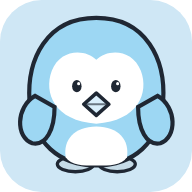
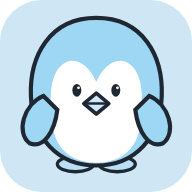
参考画像に合わせてペンギンを調整、黄色い友だちをうさぎに
- 頭の水色が眉間でとがる形、顔とおなかの白をひとつながりに、くちばしに口の線
- 休憩時に顔を出す黄色いキャラを、耳の長いうさぎ（眠たげな目）に描き直し

Claude-Session: https://claude.ai/code/session_01JvFTU9iKCs5zQqkUtnyK3x

diff --git a/index.html b/index.html
@@ -13,7 +13,7 @@
   --bg:#cfe7f5; --card:#eef7fc; --fg:#1d2a3a; --muted:#5f7387; --line:#bfdbeb;
   --accent:#2f8fd6; --accent-fg:#ffffff; --soft:#d9edf9; --warn:#d99a2b; --ok:#3a9a65;
   --bubble:#ffffff; --shadow:0 6px 24px rgba(30,50,80,.12);
-  --pg-body:#9dd7f3; --pg-face:#ffffff; --pg-beak:#d9eefb; --pg-line:#1f2733; --pg-feet:#c6dbe7; --pg-heart:#f38fb6;
+  --pg-body:#9dd7f3; --pg-face:#ffffff; --pg-beak:#cfe9fa; --pg-line:#1f2733; --pg-feet:#b9e0f5; --pg-heart:#f38fb6;
 }
 @media (prefers-color-scheme: dark){
   :root:not([data-theme="light"]){
@@ -172,31 +172,29 @@ table.tt td:first-child{color:var(--muted);font-variant-numeric:tabular-nums;wid
           <ellipse cx="45" cy="111" rx="13" ry="5.5" fill="var(--pg-feet)" stroke="var(--pg-line)" stroke-width="2.4"/>
           <ellipse cx="75" cy="111" rx="13" ry="5.5" fill="var(--pg-feet)" stroke="var(--pg-line)" stroke-width="2.4"/>
           <!-- body: one light-blue egg, big round head -->
-          <path d="M60 6 C 24 6, 10 36, 12 66 C 14 96, 34 112, 60 112 C 86 112, 106 96, 108 66 C 110 36, 96 6, 60 6 Z" fill="var(--pg-body)" stroke="var(--pg-line)" stroke-width="3"/>
-          <!-- white belly -->
-          <path d="M60 84 C 44 84, 36 94, 38 106 C 42 112, 50 112, 60 112 C 70 112, 78 112, 82 106 C 84 94, 76 84, 60 84 Z" fill="var(--pg-face)"/>
-          <!-- white face mask; the hood dips to a point between the eyes -->
-          <path d="M60 36 C 52 28, 34 28, 28 44 C 22 60, 30 80, 60 82 C 90 80, 98 60, 92 44 C 86 28, 68 28, 60 36 Z" fill="var(--pg-face)"/>
+          <path d="M60 6 C 26 6, 12 34, 13 62 C 14 92, 32 112, 60 112 C 88 112, 106 92, 107 62 C 108 34, 94 6, 60 6 Z" fill="var(--pg-body)" stroke="var(--pg-line)" stroke-width="3"/>
+          <!-- white front: face and belly in one piece; the blue hood comes down to a point between the eyes -->
+          <path d="M60 52 C 55 40, 44 32, 35 40 C 26 48, 26 66, 29 86 C 32 102, 44 110, 60 110 C 76 110, 88 102, 91 86 C 94 66, 94 48, 85 40 C 76 32, 65 40, 60 52 Z" fill="var(--pg-face)"/>
           <!-- flippers -->
-          <g class="fl"><path d="M16 62 C 2 70, 2 92, 14 96 C 24 98, 30 86, 30 70 Z" fill="var(--pg-body)" stroke="var(--pg-line)" stroke-width="3"/></g>
-          <g class="fr"><path d="M104 62 C 118 70, 118 92, 106 96 C 96 98, 90 86, 90 70 Z" fill="var(--pg-body)" stroke="var(--pg-line)" stroke-width="3"/></g>
+          <g class="fl"><path d="M22 62 C 8 68, 2 88, 12 96 C 22 100, 30 88, 32 72 Z" fill="var(--pg-body)" stroke="var(--pg-line)" stroke-width="3"/></g>
+          <g class="fr"><path d="M98 62 C 112 68, 118 88, 108 96 C 98 100, 90 88, 88 72 Z" fill="var(--pg-body)" stroke="var(--pg-line)" stroke-width="3"/></g>
           <!-- eyes -->
           <g class="eyes-open">
-            <ellipse cx="46" cy="55" rx="3.4" ry="4.4" fill="var(--pg-line)"/>
-            <ellipse cx="74" cy="55" rx="3.4" ry="4.4" fill="var(--pg-line)"/>
-            <circle cx="47.3" cy="53.2" r="1.1" fill="#fff"/>
-            <circle cx="75.3" cy="53.2" r="1.1" fill="#fff"/>
+            <ellipse cx="46" cy="58" rx="3.2" ry="4.6" fill="var(--pg-line)"/>
+            <ellipse cx="74" cy="58" rx="3.2" ry="4.6" fill="var(--pg-line)"/>
+            <circle cx="47.2" cy="56.2" r="1" fill="#fff"/>
+            <circle cx="75.2" cy="56.2" r="1" fill="#fff"/>
           </g>
           <g class="eyes-sleep" stroke="var(--pg-line)" stroke-width="2.6" stroke-linecap="round" fill="none">
-            <path d="M41 56 q5 3 10 0"/><path d="M69 56 q5 3 10 0"/>
+            <path d="M41 59 q5 3 10 0"/><path d="M69 59 q5 3 10 0"/>
           </g>
           <g class="eyes-happy" fill="var(--pg-heart)" stroke="var(--pg-line)" stroke-width="1.6" stroke-linejoin="round">
-            <path d="M46 60 C 40 55, 39 49, 43 48 C 45 47.5, 46 49, 46 50 C 46 49, 47 47.5, 49 48 C 53 49, 52 55, 46 60 Z"/>
-            <path d="M74 60 C 68 55, 67 49, 71 48 C 73 47.5, 74 49, 74 50 C 74 49, 75 47.5, 77 48 C 81 49, 80 55, 74 60 Z"/>
+            <path d="M46 63 C 40 58, 39 52, 43 51 C 45 50.5, 46 52, 46 53 C 46 52, 47 50.5, 49 51 C 53 52, 52 58, 46 63 Z"/>
+            <path d="M74 63 C 68 58, 67 52, 71 51 C 73 50.5, 74 52, 74 53 C 74 52, 75 50.5, 77 51 C 81 52, 80 58, 74 63 Z"/>
           </g>
-          <!-- beak: light-blue diamond -->
-          <path d="M60 60 L 69 68 L 60 76 L 51 68 Z" fill="var(--pg-beak)" stroke="var(--pg-line)" stroke-width="2.6" stroke-linejoin="round"/>
-          <path d="M53.5 68 L 66.5 68" stroke="var(--pg-line)" stroke-width="1.6" stroke-linecap="round" opacity=".6"/>
+          <!-- beak: light-blue diamond with a closed-mouth line -->
+          <path d="M60 60 L 69 67.5 L 60 75 L 51 67.5 Z" fill="var(--pg-beak)" stroke="var(--pg-line)" stroke-width="2.6" stroke-linejoin="round"/>
+          <path d="M52.5 67.5 L 67.5 67.5" stroke="var(--pg-line)" stroke-width="1.8" stroke-linecap="round"/>
           <!-- props -->
           <g class="laptop">
             <rect x="30" y="98" width="60" height="6" rx="2" fill="#9aa9b8" stroke="var(--pg-line)" stroke-width="2"/>
@@ -650,7 +648,7 @@ function saveHistory() {
 
 /* ---------- friends (cameo) ---------- */
 const FRIENDS = [
-  `<svg viewBox="0 0 60 60"><ellipse cx="30" cy="34" rx="22" ry="20" fill="#f6d84a" stroke="#1e2c44" stroke-width="2.5"/><path d="M8 30 c-6 -2 -8 6 -2 10z" fill="#f6d84a" stroke="#1e2c44" stroke-width="2.5"/><path d="M30 14 l-4 -8 l6 5 l3 -7 l1 9z" fill="#f6d84a" stroke="#1e2c44" stroke-width="2"/><circle cx="24" cy="32" r="2.6" fill="#1e2c44"/><circle cx="36" cy="32" r="2.6" fill="#1e2c44"/><path d="M27 40 l6 0 l-3 4z" fill="#f29a3a" stroke="#1e2c44" stroke-width="2" stroke-linejoin="round"/></svg>`,
+  `<svg viewBox="0 0 60 60"><rect x="15" y="2" width="11" height="28" rx="5.5" fill="#f6d84a" stroke="#1e2c44" stroke-width="2.5"/><rect x="34" y="2" width="11" height="28" rx="5.5" fill="#f6d84a" stroke="#1e2c44" stroke-width="2.5"/><ellipse cx="30" cy="40" rx="20" ry="17" fill="#f6d84a" stroke="#1e2c44" stroke-width="2.5"/><path d="M19 36 l9 2" stroke="#1e2c44" stroke-width="2.4" stroke-linecap="round"/><path d="M41 36 l-9 2" stroke="#1e2c44" stroke-width="2.4" stroke-linecap="round"/><path d="M21 42 q3 -3 6 0" stroke="#1e2c44" stroke-width="2.2" fill="none" stroke-linecap="round"/><path d="M33 42 q3 -3 6 0" stroke="#1e2c44" stroke-width="2.2" fill="none" stroke-linecap="round"/><path d="M28 49 q2 2 4 0" stroke="#1e2c44" stroke-width="2" fill="none" stroke-linecap="round"/></svg>`,
   `<svg viewBox="0 0 60 60"><path d="M30 6 l6 7 l9 -3 l1 9 l9 3 l-5 7 l5 8 l-9 2 l-1 9 l-9 -3 l-6 7 l-6 -7 l-9 3 l-1 -9 l-9 -2 l5 -8 l-5 -7 l9 -3 l1 -9 l9 3z" fill="#f2a5c0" stroke="#1e2c44" stroke-width="2.5" stroke-linejoin="round"/><ellipse cx="30" cy="33" rx="14" ry="13" fill="#fff3e6" stroke="#1e2c44" stroke-width="2.5"/><path d="M22 27 l6 3" stroke="#1e2c44" stroke-width="2.5" stroke-linecap="round"/><path d="M38 27 l-6 3" stroke="#1e2c44" stroke-width="2.5" stroke-linecap="round"/><circle cx="25" cy="32" r="2.2" fill="#1e2c44"/><circle cx="35" cy="32" r="2.2" fill="#1e2c44"/><ellipse cx="30" cy="38" rx="3" ry="2" fill="#1e2c44"/><circle cx="47" cy="40" r="2.5" fill="none" stroke="#f3c94a" stroke-width="2"/></svg>`,
   `<svg viewBox="0 0 60 60"><ellipse cx="30" cy="34" rx="18" ry="17" fill="#e8834a" stroke="#1e2c44" stroke-width="2.5"/><ellipse cx="12" cy="36" rx="7" ry="12" fill="#e8834a" stroke="#1e2c44" stroke-width="2.5"/><ellipse cx="48" cy="36" rx="7" ry="12" fill="#e8834a" stroke="#1e2c44" stroke-width="2.5"/><circle cx="24" cy="16" r="6" fill="#e8834a" stroke="#1e2c44" stroke-width="2.5"/><circle cx="36" cy="16" r="6" fill="#e8834a" stroke="#1e2c44" stroke-width="2.5"/><ellipse cx="30" cy="40" rx="9" ry="7" fill="#fff" stroke="#1e2c44" stroke-width="2.5"/><circle cx="24" cy="31" r="2.4" fill="#1e2c44"/><circle cx="36" cy="31" r="2.4" fill="#1e2c44"/><ellipse cx="30" cy="38" rx="3" ry="2.2" fill="#1e2c44"/></svg>`,
   `<svg viewBox="0 0 60 60"><path d="M30 8 c-16 0 -22 12 -22 24 c0 10 6 18 12 20 c3 1 4 -3 6 -3 c3 0 3 4 6 3 c7 -2 14 -10 14 -20 c0 -12 -6 -24 -16 -24z" fill="#ffffff" stroke="#1e2c44" stroke-width="2.5"/><circle cx="24" cy="30" r="2.6" fill="#1e2c44"/><circle cx="36" cy="30" r="2.6" fill="#1e2c44"/><path d="M26 38 q4 3 8 0" stroke="#1e2c44" stroke-width="2.4" fill="none" stroke-linecap="round"/><circle cx="18" cy="36" r="2.5" fill="#f7b7c6"/><circle cx="42" cy="36" r="2.5" fill="#f7b7c6"/></svg>`
